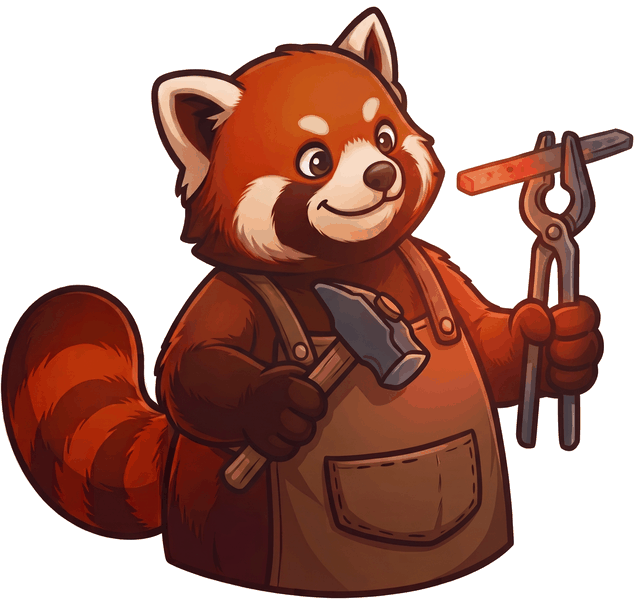
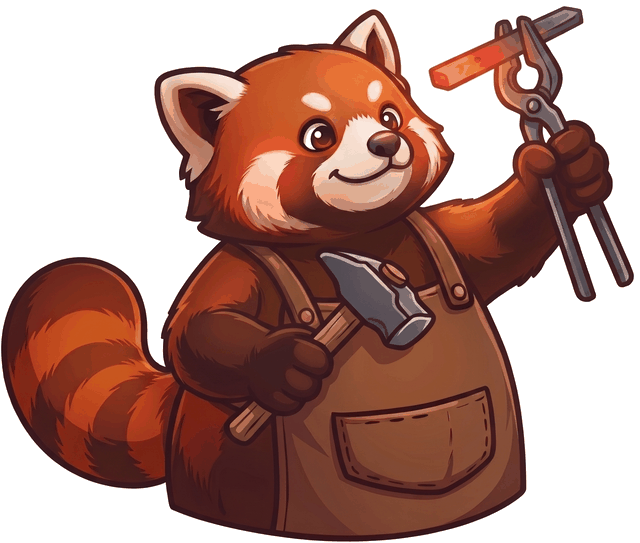
Build Positioning Image Update
Improves image used for Build Positioning module.

diff --git a/modules/build-positioning/build-positioning.js b/modules/build-positioning/build-positioning.js
@@ -417,8 +417,8 @@
     <section class="bpos__grid is-idle" data-el="results" aria-label="Positioning results">
       <div class="bpos__idle">
         <div class="bpos__intro">
-          <img class="bpos__intro-img" src="modules/build-positioning/build-positioning-panda.png"
-            alt="" width="640" height="605">
+          <img class="bpos__intro-img" src="modules/build-positioning/build-positioning-panda.png?v=2"
+            alt="" width="640" height="543">
           <div class="bpos__intro-copy">
             <p class="bpos__intro-title">Let's build your positioning!</p>
             <p class="bpos__intro-text">We'll need to draft positioning before we craft your messaging.
